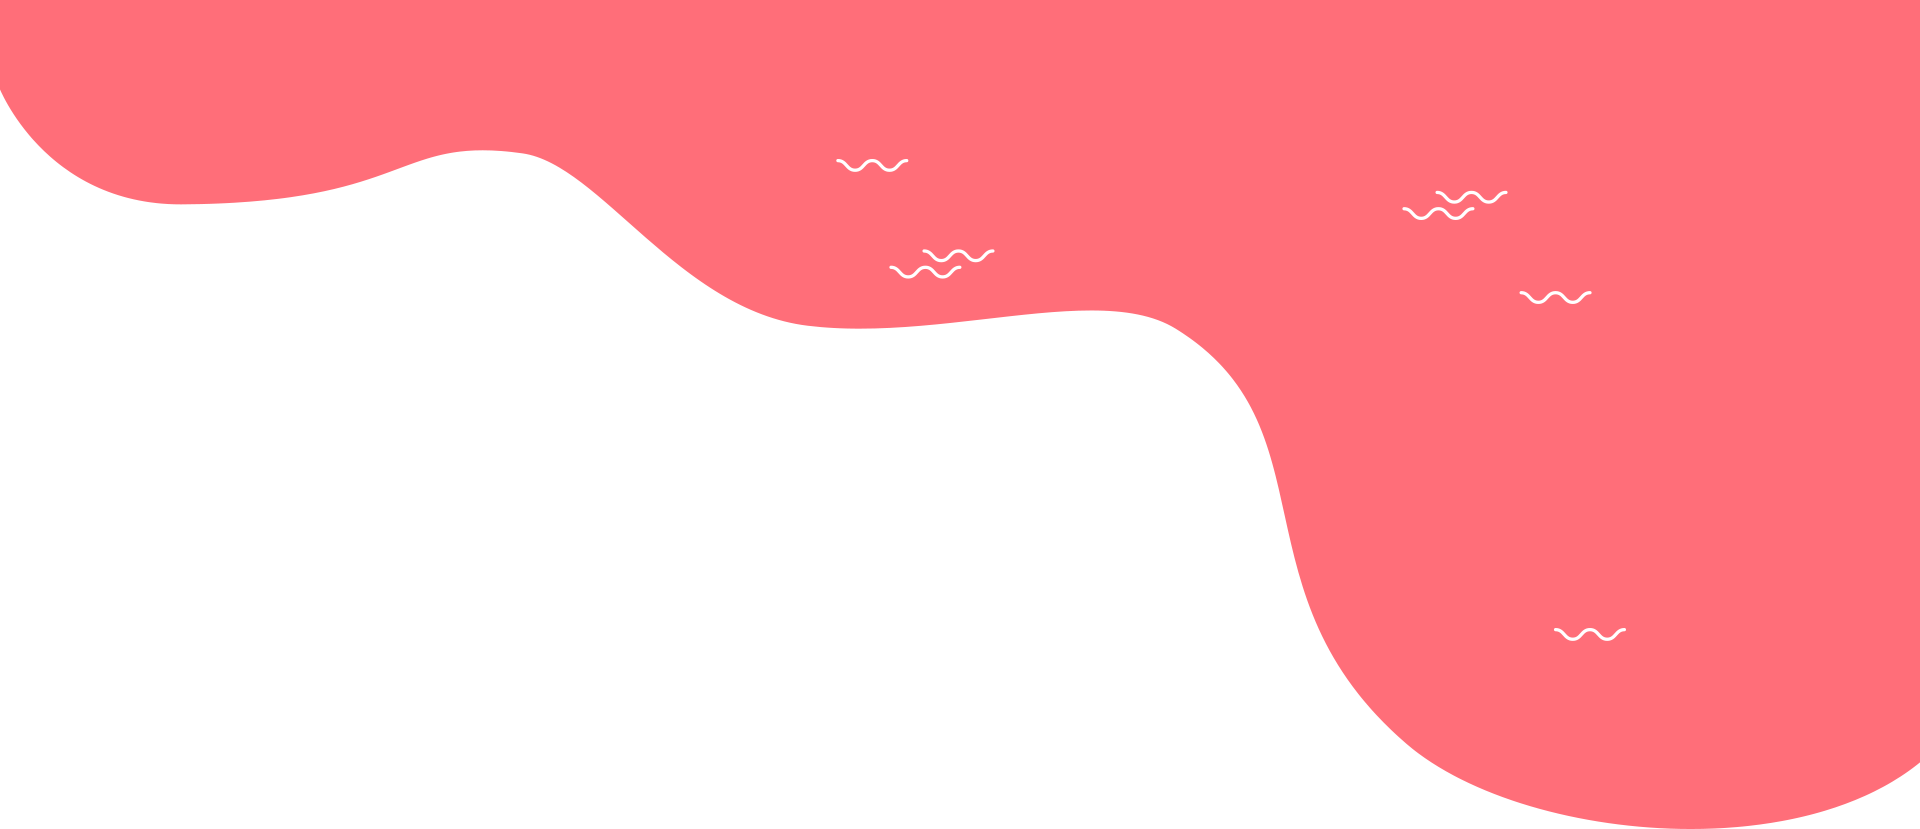
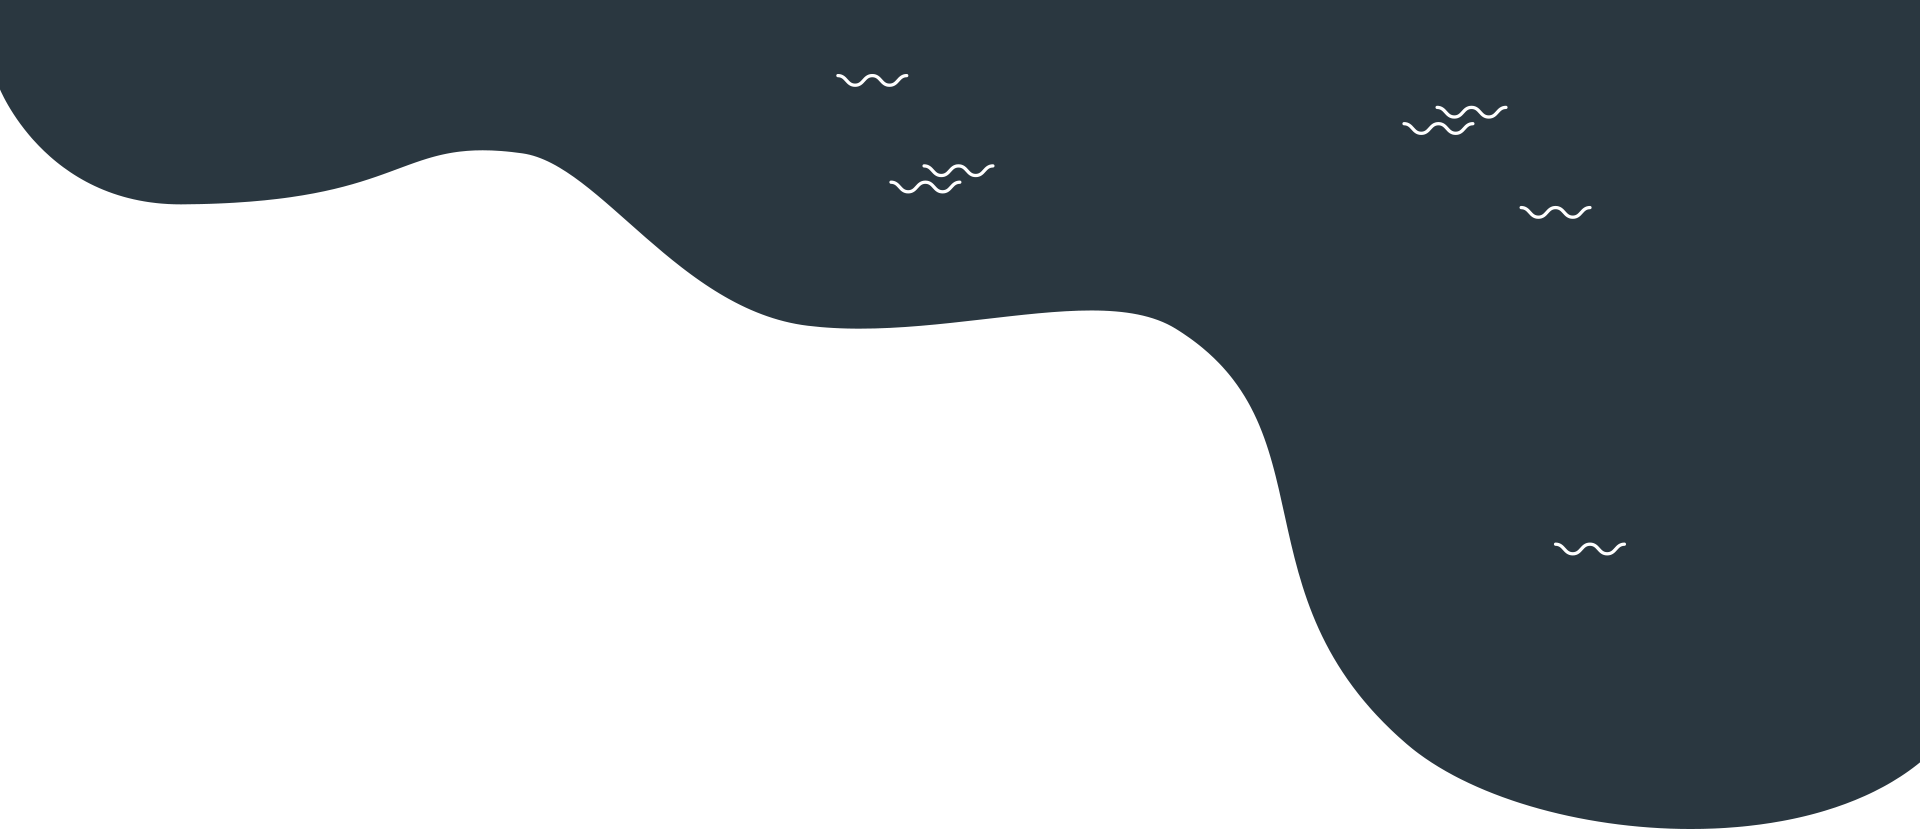
Progress

diff --git a/src/_includes/css/style.css b/src/_includes/css/style.css
@@ -96,41 +96,13 @@ body {
 
 /*============Common CSS End===============*/
 
-/*=============Preloader Part CSS Start===================*/
 
-.loading {
-    position: fixed;
-    top: 0;
-    left: 0;
-    height: 100%;
-    width: 100%;
-    background-color: #fff;
-    z-index: 9999999999;
-}
-
-.preloader .animation-circle-inverse > span {
-    background: rgba(255, 109, 121, 1);
-    bottom: 0;
-    position: absolute;
-    top: 50%;
-    left: 48%;
-    height: 25px;
-    width: 25px;
-    border-radius: 100%;
-    -webkit-transform: translate(-50%, -50%), scale(1.3);
-    transform: scale(1.3);
-    opacity: 0.4;
-    -webkit-animation: circleWater 3s linear infinite;
-    animation: circleWater 3s linear infinite;
-}
-
-/*=============Preloader Part CSS End===================*/
 
 /*===============Navbar Part CSS Start===============*/
 .navcss {
     position: fixed;
     width: 100%;
-    background: #ff6e79;
+    background: #2a3740;
     height: 100px;
     padding-top: 8px;
     padding-bottom: 8px;
@@ -194,7 +166,7 @@ header nav ul li a {
     word-spacing: 3px;
     text-align: center;
     font-family: "Rubik", sans-serif;
-    color: #ff4553;
+    color: #74071e;
     -webkit-transition: all 0.4s ease-in-out;
     transition: all 0.4s ease-in-out;
     text-transform: capitalize;
@@ -231,7 +203,7 @@ header nav ul li a:hover {
     position: absolute;
     left: 50%;
     transform: translateX(-50%);
-    background-color: #ff4553;
+    background-color: #74071e;
     -webkit-transition: all 0.5s ease-in-out;
     transition: all 0.5s ease-in-out;
 }
@@ -348,7 +320,7 @@ header nav ul li a:hover {
     font-weight: 700;
     letter-spacing: 2px;
     line-height: 24px;
-    color: #ff4553;
+    color: #74071e;
     z-index: 99;
     text-transform: capitalize;
 }
@@ -392,7 +364,7 @@ header nav ul li a:hover {
     -moz-transition: all ease 0.7s;
     -o-transition: all ease 0.7s;
     transition: all ease 0.7s;
-    background: #ff4553;
+    background: #74071e;
 }
 
 .banner-btn a:hover {
@@ -693,7 +665,7 @@ header nav ul li a:hover {
     height: 55px;
     line-height: 55px;
     border-radius: 50%;
-    background: #ff4553;
+    background: #74071e;
     opacity: 0;
 }
 
@@ -786,7 +758,7 @@ Our Instructor Part CSS Start
 }
 
 .overlay_icons i {
-    color: #ff4553;
+    color: #74071e;
     background: #fff;
     width: 50px;
     height: 50px;
@@ -795,7 +767,7 @@ Our Instructor Part CSS Start
 
 .overlay_icons li:hover i {
     color: #fff;
-    background: #ff4553;
+    background: #74071e;
     -webkit-transition: all ease 0.6s;
     transition: all ease 0.6s;
 }
@@ -918,9 +890,9 @@ Testimonial Part CSS Start
     font-size: 14px;
     cursor: pointer;
     background: transparent;
-    border: 1px solid #ff4553;
+    border: 1px solid #74071e;
     z-index: 9;
-    color: #ff4553;
+    color: #74071e;
 }
 
 .slidprev {
@@ -936,14 +908,14 @@ Testimonial Part CSS Start
     font-size: 14px;
     cursor: pointer;
     background: transparent;
-    border: 1px solid #ff4553;
+    border: 1px solid #74071e;
     z-index: 9;
-    color: #ff4553;
+    color: #74071e;
 }
 
 .slidNext:hover,
 .slidprev:hover {
-    background: #ff4553;
+    background: #74071e;
     color: #fff;
     -webkit-transition: all 0.5s ease;
     -moz-transition: all 0.5s ease;
@@ -959,7 +931,7 @@ Testimonial Part CSS End
     Join Class Part HTML Start
     ======================== */
 .join-cls {
-    background: #ff6e79;
+    background: #2a3740;
     padding: 60px 0;
     margin-top: 60px;
 }
@@ -995,7 +967,7 @@ Testimonial Part CSS End
     vertical-align: top;
     text-align: center;
     line-height: 22px;
-    color: #ff4553;
+    color: #74071e;
     font-weight: 400;
     font-family: "Rubik", sans-serif;
     padding: 12px 28px;
@@ -1033,7 +1005,7 @@ Testimonial Part CSS End
 }
 
 .price-plan:hover {
-    background: #ff6e79;
+    background: #2a3740;
     -webkit-transition: all ease 0.7s;
     -moz-transition: all ease 0.7s;
     -o-transition: all ease 0.7s;
@@ -1080,7 +1052,7 @@ Testimonial Part CSS End
 
 .price-plan:hover a {
     background: #fff;
-    color: #ff6e79;
+    color: #2a3740;
     box-shadow: 0px 8px 30px 0px rgba(0, 0, 0, 0.19);
     -webkit-box-shadow: 0px 8px 30px 0px rgba(0, 0, 0, 0.19);
     -moz-box-shadow: 0px 8px 30px 0px rgba(0, 0, 0, 0.19);
@@ -1107,7 +1079,7 @@ Testimonial Part CSS End
 }
 
 .cont-head h3 {
-    color: #ff4553;
+    color: #74071e;
     font-weight: 900;
     width: 250px;
     line-height: 40px;
@@ -1134,7 +1106,7 @@ Testimonial Part CSS End
 .location-icon i {
     font-size: 16px;
     color: #ffffff;
-    background: #ff4553;
+    background: #74071e;
     width: 50px;
     height: 50px;
     line-height: 50px;
@@ -1219,7 +1191,7 @@ Testimonial Part CSS End
     font-family: "Rubik", sans-serif;
     padding: 8px 40px;
     text-transform: capitalize;
-    background: #f05456;
+    background: #9f0625;
     color: #ffffff;
     border: 1px solid #ffffff;
     border-radius: 25px;
@@ -1227,7 +1199,7 @@ Testimonial Part CSS End
 
 .contact-form .btn:hover {
     background: #ffffff;
-    color: #ff4553;
+    color: #74071e;
     box-shadow: 0px 8px 30px 0px rgba(240, 84, 86, 0.3);
     -webkit-box-shadow: 0px 8px 30px 0px rgba(240, 84, 86, 0.3);
     -moz-box-shadow: 0px 83px 30px 0px rgba(240, 84, 86, 0.3);
@@ -1242,7 +1214,7 @@ Testimonial Part CSS End
 .form-control:focus {
     color: #495057;
     background-color: #fff;
-    border-color: #ff4553;
+    border-color: #74071e;
     outline: 0;
     transition: all linear 0.6s;
     -webkit-transition: all linear 0.6s;
@@ -1276,7 +1248,7 @@ Testimonial Part CSS End
 .footer-menu ul li i {
     font-size: 16px;
     color: #ffffff;
-    background: #ff4553;
+    background: #74071e;
     width: 40px;
     height: 40px;
     line-height: 40px;
@@ -1290,7 +1262,7 @@ Testimonial Part CSS End
 }
 
 .footer-menu li:hover i {
-    color: #ff4553;
+    color: #74071e;
     background: #fff;
     box-shadow: 0px 13px 30px 0px rgba(240, 84, 86, 0.5);
     -webkit-box-shadow: 0px 13px 30px 0px rgba(240, 84, 86, 0.5);
@@ -1454,7 +1426,7 @@ Testimonial Part CSS End
    404 Part HTML Start
 ===================================== */
 .header-color {
-    background: #ff6e79;
+    background: #2a3740;
     height: 100px;
     width: 100%;
     position: fixed;
@@ -1472,7 +1444,7 @@ Testimonial Part CSS End
     font-size: 400px;
     font-weight: 900;
     line-height: 24px;
-    color: #ff4553;
+    color: #74071e;
     padding-top: 230px;
 }
 
@@ -1554,7 +1526,7 @@ Testimonial Part CSS End
     position: fixed;
     bottom: 20px;
     right: 20px;
-    background: #ff4553;
+    background: #74071e;
     color: #fff;
     width: 55px;
     line-height: 55px;
@@ -1586,7 +1558,7 @@ Testimonial Part CSS End
 }
 
 #back-top-btn:hover i {
-    color: #ff4553;
+    color: #74071e;
 }
 
 #back-top-btn:hover {

diff --git a/src/_includes/layouts/home.html b/src/_includes/layouts/home.html
@@ -32,15 +32,13 @@
         <div class="row">
           <div class="col-md-6 banner-l">
             <div class="banner-text">
-              <h3>Welcome To OmYoga</h3>
-              <h1 class="heading-font">Change Your Life By Meditation</h1>
+              <h3>{{ intro.header }}</h3>
+              <h1 class="heading-font">{{ intro.subheader }}</h1>
               <p>
-                Lorem ipsum dolor sit amet, consectetur adipisicing elit, se do
-                eiusmod tempor incididunt ut labore et dolore magna aliqua. Ut
-                enim ad minim veniam.
+                {{ intro.cta }}
               </p>
               <div class="banner-btn">
-                <a href="#">Join Us</a>
+                <a href="{{ intro.buttonUrl }}">{{ intro.buttonText }}</a>
               </div>
             </div>
           </div>
@@ -76,7 +74,7 @@
         <div class="row">
           <div class="col-md-6 col-12">
             <div class="footer-text">
-              <p>© Copyright 2020. All rights reserved by Designer</p>
+              <p>© Copyright {{ global.currentYear() }}. All rights reserved by All Walks Yoga, LLC.</p>
             </div>
           </div>
           <div class="col-md-6 col-12">

diff --git a/src/_data/global.js b/src/_data/global.js
@@ -4,5 +4,9 @@ module.exports = {
         return (((1 + Math.random()) * 0x10000) | 0).toString(16).substring(1);
       };
       return `${segment()}-${segment()}-${segment()}`;
+    },
+    currentYear() {
+      const today = new Date();
+      return today.getFullYear();
     }
   };  

diff --git a/src/index.md b/src/index.md
@@ -1,6 +1,12 @@
 ---
 layout: layouts/home.html
-title: Home
-metaDesc: All Walks Stuff
+title: All Walks Yoga
+metaDesc: 'Located in Akron, Ohio, at All Walks Yoga we focus on accessible yoga to bring everyone together regardless of race, gender, sexual orientation, body type, body ability, or fitness level. No matter where you are in your walk of life, all are welcome, together.'
+intro:
+    header: 'Welcome To All Walks Yoga'
+    subheader: 'Accessible Yoga for Everyone'
+    cta: 'At All Walks Yoga we focus on accessible yoga to bring everyone together regardless of race, gender, sexual orientation, body type, body ability, or fitness level. No matter where you are in your walk of life, all are welcome, together.'
+    buttonText: 'Join Us'
+    buttonUrl: '#'
 ---
 Test!
